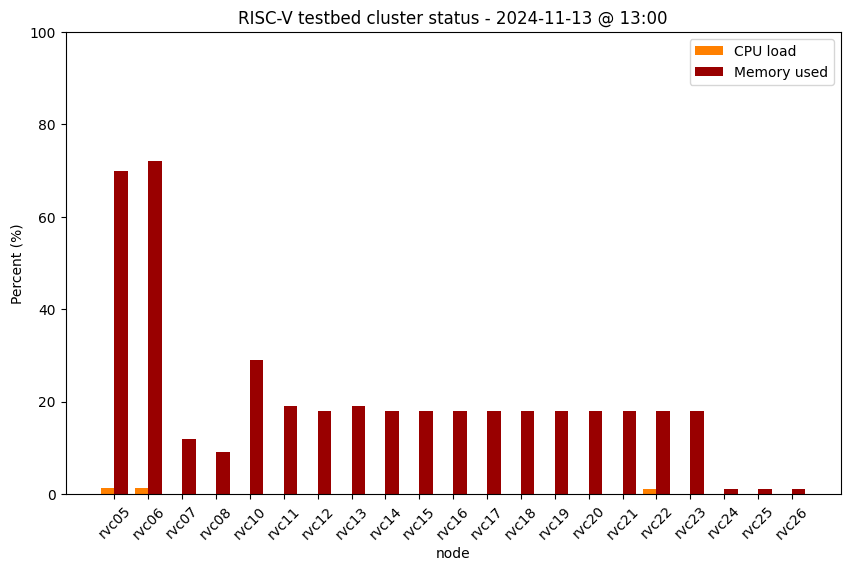
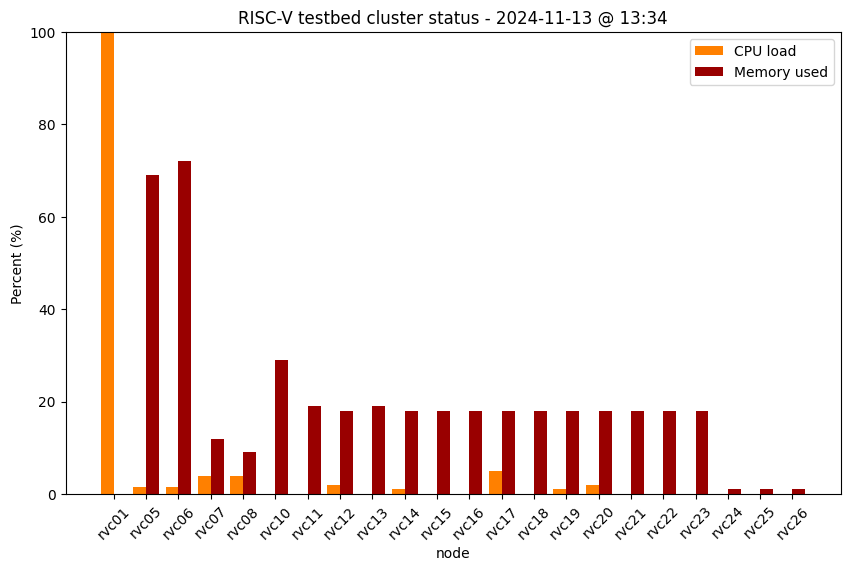
Update cluster status

Changed region(s): [[0.0918, 0.0595, 0.9482, 0.9527], [0.7647, 0.0, 0.7953, 0.0595]]

diff --git a/status.md b/status.md
@@ -13,7 +13,7 @@ permalink: /status/
 
 | Description  | Hostname | # of cores | DRAM | Status |
 | ------------- | ------------- |  ------------- | ------------- | ------------- | 
-| DongshanNezhaSTU #1 | rvc01 | 1 | 512MB | <img src="/images/amber.png" alt="amber light" width="10"/> offline |
+| Banana Pi BPI-F3 #1 | rvc01 | 8 | 16GB | <img src="/images/on.png" alt="green light" width="10"/> up |
 | DongshanNezhaSTU #2 | rvc02 | 1 | 512MB | <img src="/images/amber.png" alt="amber light" width="10"/> offline |
 | DongshanNezhaSTU #3 | rvc03 | 1 | 512MB | <img src="/images/amber.png" alt="amber light" width="10"/> offline |
 | DongshanNezhaSTU #4 | rvc04 | 1 | 512MB | <img src="/images/amber.png" alt="amber light" width="10"/> offline |
